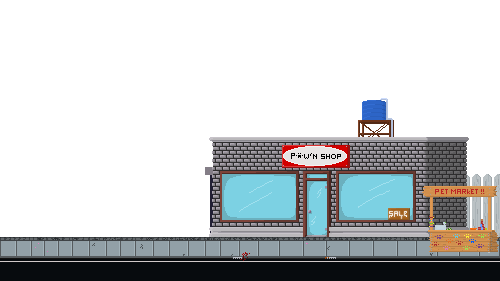
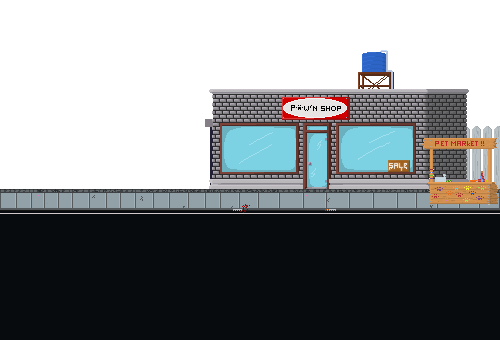
fix camera to use zone height and add zone height to street

diff --git a/src/LostAndFound.Core/Games/Camera.cs b/src/LostAndFound.Core/Games/Camera.cs
@@ -7,6 +7,7 @@ namespace LostAndFound.Core.Games
     public class Camera
     {
         private readonly IWindowConfiguration _windowConfiguration;
+        private readonly ZoneManager _zoneManager;
         private Vector2 _position;
 
         private int _minX;
@@ -18,27 +19,29 @@ namespace LostAndFound.Core.Games
 
         private IEntity _following;
 
-        public Camera(IWindowConfiguration windowConfiguration)
+        public Camera(IWindowConfiguration windowConfiguration, ZoneManager zoneManager)
         {
             _windowConfiguration = windowConfiguration;
+            _zoneManager = zoneManager;
             _position = Vector2.Zero;
             _maxX = 2000000;
             _maxY = 1000000;
         }
-        
+
         public Vector2 ToGo { get; set; }
+
         public void Goto(Vector2 pos)
         {
             ToGo = pos;
         }
-        
+
         public void Update(int maxX, int maxY)
         {
             maxX -= _windowConfiguration.WindowWidth / 2 / _zoom + 3;
-            maxY -= _windowConfiguration.WindowHeight / 2 / _zoom + 3;
+            maxY = _zoneManager.ActiveZone.Image.Height - (_windowConfiguration.WindowHeight / 2 / _zoom + 3);
             _minX = _windowConfiguration.WindowWidth / 2 / _zoom + 1;
             _minY = _windowConfiguration.WindowHeight / 2 / _zoom;
-            
+
             if (_following != null)
                 Goto(new Vector2(_following.Position.X,
                     _following.Position.Y));
@@ -56,7 +59,7 @@ namespace LostAndFound.Core.Games
             _position.X = MathHelper.Clamp(_position.X, _minX, maxX);
             _position.Y = MathHelper.Clamp(_position.Y, _minY, maxY);
         }
-        
+
         public void SetEntity(IEntity entity, bool immediate)
         {
             _following = entity;
@@ -64,7 +67,7 @@ namespace LostAndFound.Core.Games
             if (immediate)
                 Position = entity.Position;
         }
-        
+
         public Vector2 Position
         {
             get => _position;

diff --git a/src/LostAndFound.Core/Games/GameInstance.cs b/src/LostAndFound.Core/Games/GameInstance.cs
@@ -41,7 +41,7 @@ namespace LostAndFound.Core.Games
             _zoneManager = zoneManager;
             _skyboxManager = skyboxManager;
 
-            _camera = new Camera(windowConfiguration);
+            _camera = new Camera(windowConfiguration, zoneManager);
         }
 
         public void Load()
@@ -65,7 +65,7 @@ namespace LostAndFound.Core.Games
             var playerSoundComponent = Program.Resolve<SoundComponent>();
             var animatorComponent = Program.Resolve<AnimatorComponent>();
             animatorComponent.SetUp(Program.Resolve<PlayerAnimationSet>());
-            
+
             player.AddComponent(Program.Resolve<LightComponent>());
             player.AddComponent(Program.Resolve<PlayerAnimationComponent>());
             player.AddComponent(Program.Resolve<AnimationDrawComponent>());
@@ -104,9 +104,9 @@ namespace LostAndFound.Core.Games
                 _camera.GetMatrix());
             _zoneManager.Draw(_renderManager.SpriteBatch);
             _renderManager.SpriteBatch.End();
-            
+
             _lightingOverlay.Draw(_camera);
-            
+
             _renderManager.SpriteBatch.Begin(SpriteSortMode.Deferred, null, SamplerState.PointClamp);
             _gameInterface.Draw();
             _systemManager.Draw(_renderManager.SpriteBatch);

diff --git a/src/LostAndFound.Core/Content/PlayerAnimationSet.cs b/src/LostAndFound.Core/Content/PlayerAnimationSet.cs
@@ -48,7 +48,11 @@ namespace LostAndFound.Core.Content
             animatorComponent.AddAnimation("Walk_Up", new Animation(new List<Sprite>
             {
                 playerAnimationMap.CreateSpriteFromRegion("Walk_Up_1"),
-                playerAnimationMap.CreateSpriteFromRegion("Walk_Up_2")
+                playerAnimationMap.CreateSpriteFromRegion("Walk_Up_2"),
+                playerAnimationMap.CreateSpriteFromRegion("Walk_Up_3"),
+                playerAnimationMap.CreateSpriteFromRegion("Walk_Up_4"),
+                playerAnimationMap.CreateSpriteFromRegion("Walk_Up_5"),
+                playerAnimationMap.CreateSpriteFromRegion("Walk_Up_6")
             })
             {
                 FrameDuration = 0.2f
